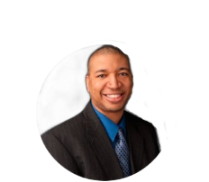
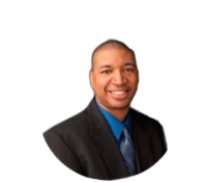
cleaned up modal, edited placement and sizing

Changed region(s): [[0.3158, 0.1923, 0.8038, 0.989], [0.1722, 0.7143, 0.5742, 1.0], [0.2297, 0.6593, 0.3158, 0.7143]]

diff --git a/index-backup.html b/index-backup.html
@@ -24,9 +24,8 @@
                   <div class="modal-content animate-zoom">
                    
                     <center>
-                    <img src="./assets/images/stanman.png" style="width:500px; height:20%">
-                    </center>
-                   
+                    <img src="./assets/images/stanman.png" style="vertical-align: middle;margin:165px 0px">
+                    </center> 
                   </div>
                 </div>
               </div>
